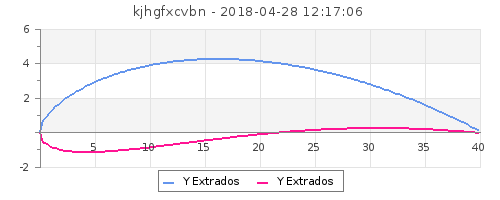
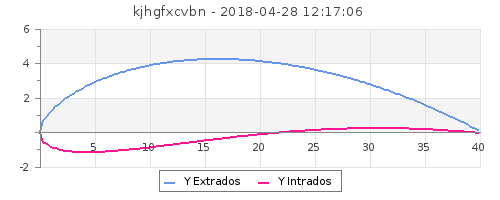
ajout couleur

Changed region(s): [[0.54, 0.87, 0.69, 0.96], [0.36, 0.87, 0.48, 0.93], [0.3, 0.87, 0.33, 0.96]]

diff --git a/form.html b/form.html
@@ -30,6 +30,8 @@
         f maxium (mm) : <input type="text" name="fMaxmm"><br>
         f maximum (%) : <input type="text" name="fMaxPercent"><br><br>
         Nombre de points : <input type="text" name="nbPoints"><br><br>
+        Couleur de la courbe Y Intrados : <input type="color" name="intradosColor"><br>
+        Couleur de la courbe Y Extrados : <input type="color" name="extradosColor"><br><br>
         <input type="submit" value="Valider"/><br>
     </form>
 

diff --git a/php/form.php b/php/form.php
@@ -5,7 +5,7 @@ $db = new Database();
 $date = new DateTime();
 
 $fic_img = $_POST['libelle'].'.png';
-
+$fic_csv = $_POST['libelle'].'vsc';
 //Remplacement des ',' par des '.'
 $arrayContent = array();
 foreach($_POST as $key => $value){
@@ -15,7 +15,7 @@ foreach($_POST as $key => $value){
 
 
 // envoi des données saisies
-$db->execute("INSERT INTO parametre VALUES (null,:libelle, :corde, :tMaxmm, :tMaxPercent, :fMaxmm, :fMaxPercent, :nbPoints, :date, :fic_img, null)",array("libelle"=>$arrayContent['libelle'], "corde"=>$arrayContent['corde'], "tMaxmm"=>$arrayContent['tMaxmm'], "tMaxPercent"=>$arrayContent['tMaxPercent'], "fMaxmm"=>$arrayContent['fMaxmm'], "fMaxPercent"=>$arrayContent['fMaxPercent'], "nbPoints"=>$arrayContent['nbPoints'], "date"=>$date->format('Y-m-d H:i:s'), "fic_img"=>$fic_img));
+$db->execute("INSERT INTO parametre VALUES (null,:libelle, :corde, :tMaxmm, :tMaxPercent, :fMaxmm, :fMaxPercent, :nbPoints, :date, :fic_img, :fic_csv, :intradosColor, :extradosColor)",array("libelle"=>$arrayContent['libelle'], "corde"=>$arrayContent['corde'], "tMaxmm"=>$arrayContent['tMaxmm'], "tMaxPercent"=>$arrayContent['tMaxPercent'], "fMaxmm"=>$arrayContent['fMaxmm'], "fMaxPercent"=>$arrayContent['fMaxPercent'], "nbPoints"=>$arrayContent['nbPoints'], "date"=>$date->format('Y-m-d H:i:s'), "fic_img"=>$fic_img, "fic_csv"=>$fic_csv, "intradosColor"=>$arrayContent['intradosColor'], "extradosColor"=>$arrayContent['extradosColor']));
 
 //Retour accueil
 header('Location: /ProjetPHP/index.php');

diff --git a/php/Naca.php b/php/Naca.php
@@ -108,14 +108,14 @@ class Naca{
     // Première courbe
     $p1 = new LinePlot($arrayYextrados, $arrayX);
     $graph->Add($p1);
-    $p1->SetColor("#6495ED");
+    $p1->SetColor($this->parametre->getIntradosColor());
     $p1->SetLegend('Y Extrados');
 
     // Deuxième courbe
     $p2 = new LinePlot($arrayYintrados, $arrayX);
     $graph->Add($p2);
-    $p2->SetColor("#FF1493");
-    $p2->SetLegend('Y Extrados');
+    $p2->SetColor($this->parametre->getExtradosColor());
+    $p2->SetLegend('Y Intrados');
 
 
     $graph->legend->SetFrameWeight(1);

diff --git a/php/Parametres.php b/php/Parametres.php
@@ -11,9 +11,10 @@ class Parametres{
     private $fMaxmm;
     private $nbPoints;
     private $date;
-
     private $fic_img;
     private $fic_csv;
+    private $intradosColor;
+    private $extradosColor;
 
     function __toString()
     {
@@ -73,6 +74,16 @@ class Parametres{
     public function getFic_csv(){
 
         return $this->fic_csv;
+    }
+
+    public function getIntradosColor(){
+
+        return $this->intradosColor;
+    }
+
+    public function getExtradosColor(){
+
+        return $this->extradosColor;
     }
 }
 

diff --git a/index.php b/index.php
@@ -26,7 +26,7 @@
       require "php/Naca.php";
 
       $db = new Database();
-      $n = new Naca($db,2);
+      $n = new Naca($db,1);
       $n -> drawGraph();
       
     ?>
